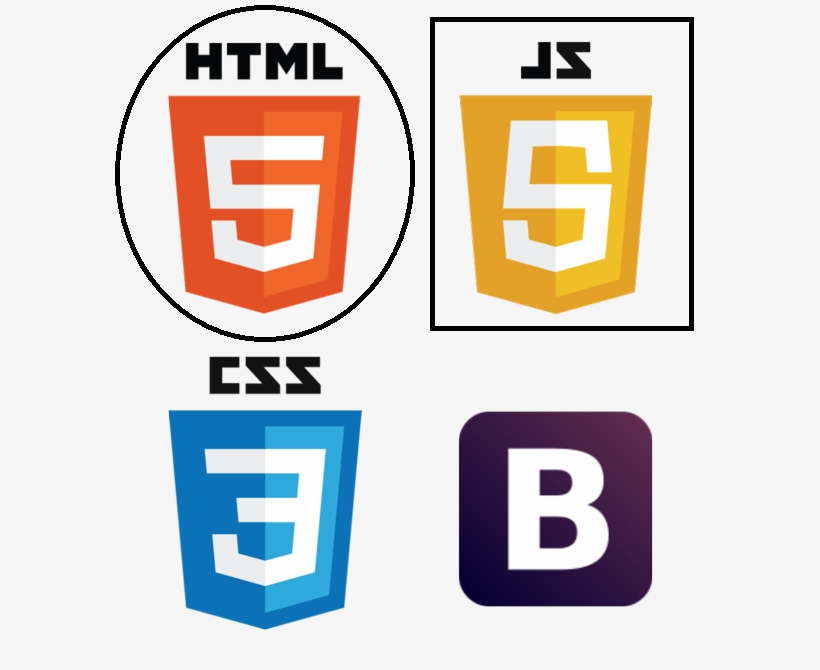
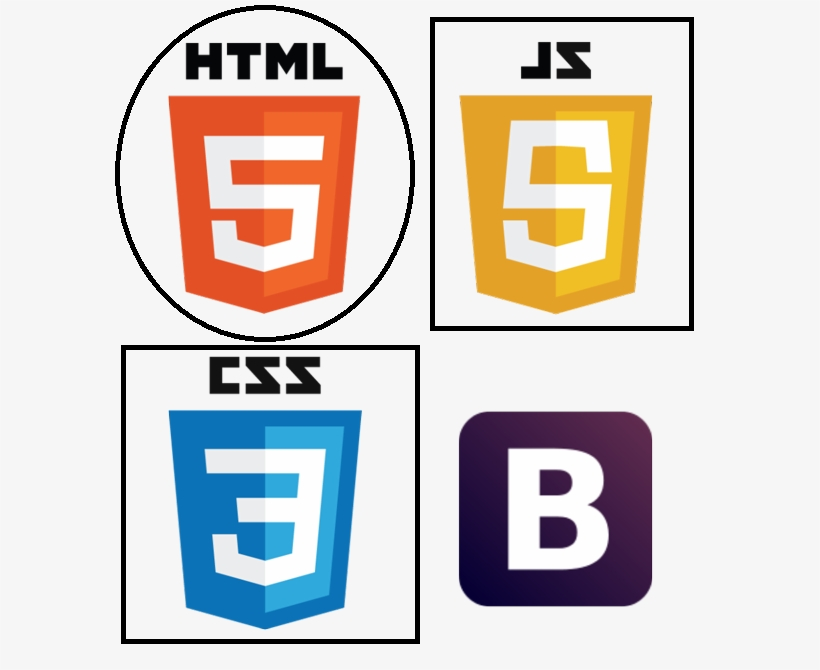
made changes in practical5

Changed region(s): [[0.122, 0.5075, 0.5183, 0.9851]]

diff --git a/pages/Practical5.html b/pages/Practical5.html
@@ -10,12 +10,12 @@
     <div style="display:flex; justify-content: center;">
         <img src="../images/navigation.png" style="width: 1000px; height: 50px;" alt="navigation bar" usemap="#navbar">
         <map name="navbar">
-            <area shape="rect" coords="3,6,105,51" href="https://ashnas23.github.io/fullstack_WD/" alt="">
-            <area shape="rect" coords="134,10,348,51" href="https://ashnas23.github.io/fullstack_WD/pages/Practical1.html" alt="">
-            <area shape="rect" coords="374,12,587,48" href="https://ashnas23.github.io/fullstack_WD/pages/Practical2.html" alt="">
-            <area shape="rect" coords="612,13,825,51" href="https://ashnas23.github.io/fullstack_WD/pages/Practical3.html" alt="">
-            <area shape="rect" coords="854,9,1068,48" href="https://ashnas23.github.io/fullstack_WD/#" alt="">
-            <area shape="rect" coords="1090,10,1294,50" href="" alt="">
+            <area shape="rect" coords="" href="https://ashnas23.github.io/fullstack_WD/" alt="">
+            <area shape="rect" coords="139,19,320,36" href="https://ashnas23.github.io/fullstack_WD/pages/Practical1.html" alt="">
+            <area shape="rect" coords="380,21,564,36" href="https://ashnas23.github.io/fullstack_WD/pages/Practical2.html" alt="">
+            <area shape="rect" coords="626,21,806,36" href="https://ashnas23.github.io/fullstack_WD/pages/Practical3.html" alt="">
+            <area shape="rect" coords="855,21,1040,36" href="https://ashnas23.github.io/fullstack_WD/#" alt="">
+            <area shape="rect" coords="1089,21,1280,36" href="https://ashnas23.github.io/fullstack_WD/pages/Practical5.html" alt="">
         </map>
     </div>
     <h2 style="color: white; text-align: center;">
@@ -25,10 +25,10 @@
     <div style="display: flex; justify-content: center;">
         <img src="../images/frontend.png" style="width: 300px; height: 300px;" alt="frontend" usemap="#myimage">
         <map name="myimage">
-            <area shape="circle" coords="261,186,147.5" href="Practical5-html.html" alt="">
-            <area shape="rect" coords="432,21,692,326" href="Practical5-js.html" alt="">
-            <area shape="poly" coords="261,361,358,414,173,413,189,606,265,625,342,603" href="Practical5-css.html" alt="">
-            <area shape="rect" coords="468,421,643,593" href="Practical5-bs.html" alt="">
+            <area shape="circle" coords="1" href="" alt="">
+            <area shape="rect" coords="432,20,689,327" href="https://ashnas23.github.io/fullstack_WD/pages/Practical5-js.html" alt="">
+            <area shape="rect" coords="124,348,416,640" href="https://ashnas23.github.io/fullstack_WD/pages/Practical5-css.html" alt="">
+            <area shape="rect" coords="469,422,641,593" href="https://ashnas23.github.io/fullstack_WD/pages/Practical5-bs.html" alt="">
         </map>
     </div>
     <h3 style="color: red; text-align: center;">
